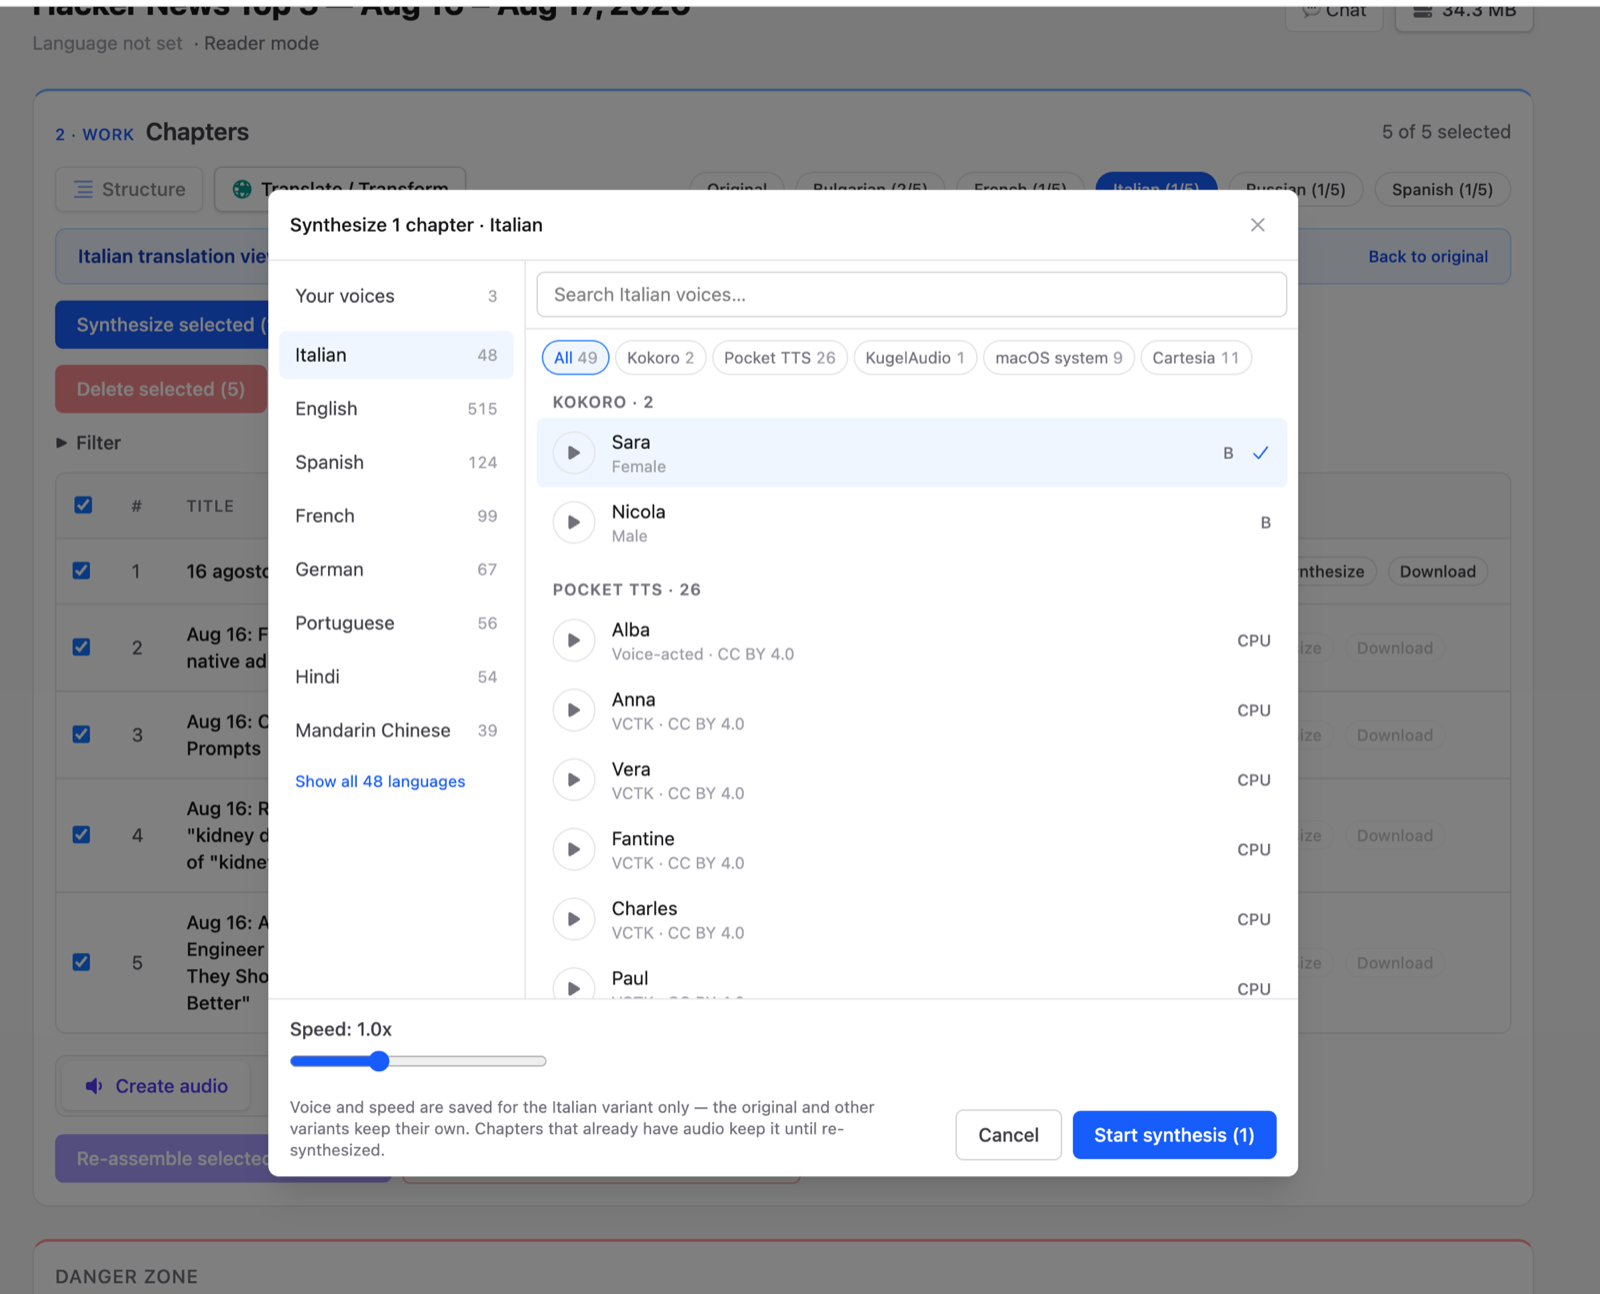
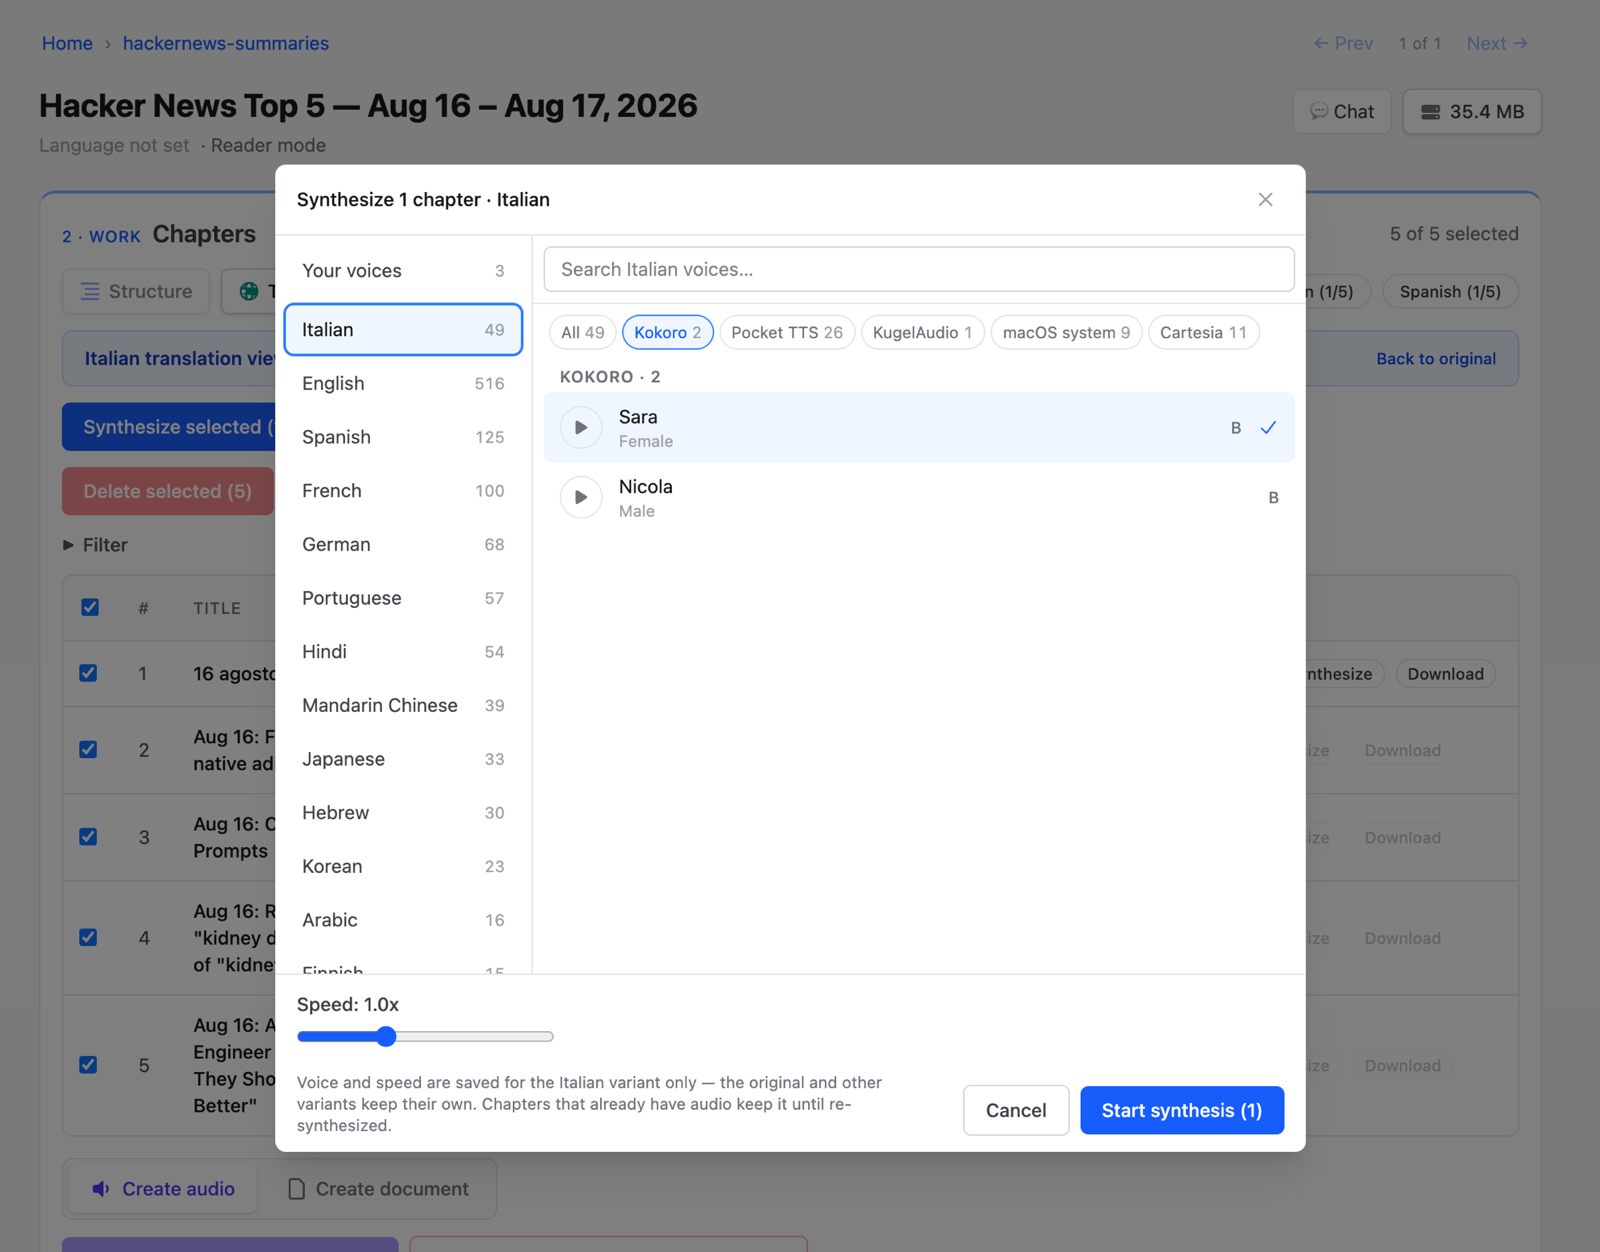
Languages screenshot shows the corrected voice counts
The previous shot pictured the mismatch it was meant to illustrate — 48 in
the rail against 49 across the chips. Retaken now that both come from one
predicate, and it also shows more of the language list than the old crop did.

diff --git a/README.md b/README.md
@@ -64,7 +64,7 @@ Every engine covers a different set, so the answer to "does it do language X" de
 | 24 EU languages | 1 multilingual narrator | KugelAudio (opt-in ~5 GB download) |
 | Most others | many | [Cartesia](https://cartesia.ai) (cloud, needs an API key), plus any macOS system voice you have installed |
 
-![The voice picker filtered to Italian: 48 voices across Kokoro, Pocket TTS, KugelAudio, macOS system voices and Cartesia](docs/images/voice-picker-languages.png)
+![The voice picker filtered to Italian: 49 voices across Kokoro, Pocket TTS, KugelAudio, macOS system voices and Cartesia](docs/images/voice-picker-languages.png)
 
 The picker leads with the language, not the engine: pick Italian and you get every voice that can read it, grouped by engine, with a preview button on each one.
 
